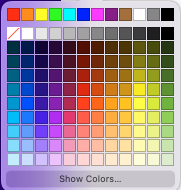
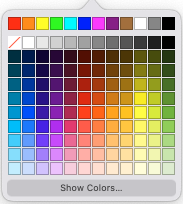
html color picker

diff --git a/chap1/colors.tex b/chap1/colors.tex
@@ -31,6 +31,10 @@
 	\end{tabular}
 \end{center}
 
+HTML \index{HTML 超文本标记语言}的标签\index{tag, 标签} <input type="color"> 可为网页搭建一个调色板.
+不同的浏览器实施各不相同. Apple Safari 浏览器展示的调色板如 \ref{fig:1.4.2},
+其首选正是“ 赤橙黄绿青蓝紫”,紫前加上洋红 (magenta), 紫后加上棕白灰黑.
+
 \begin{figure}
 	\centering
 	\includegraphics{png/safari_color_picker.png}
